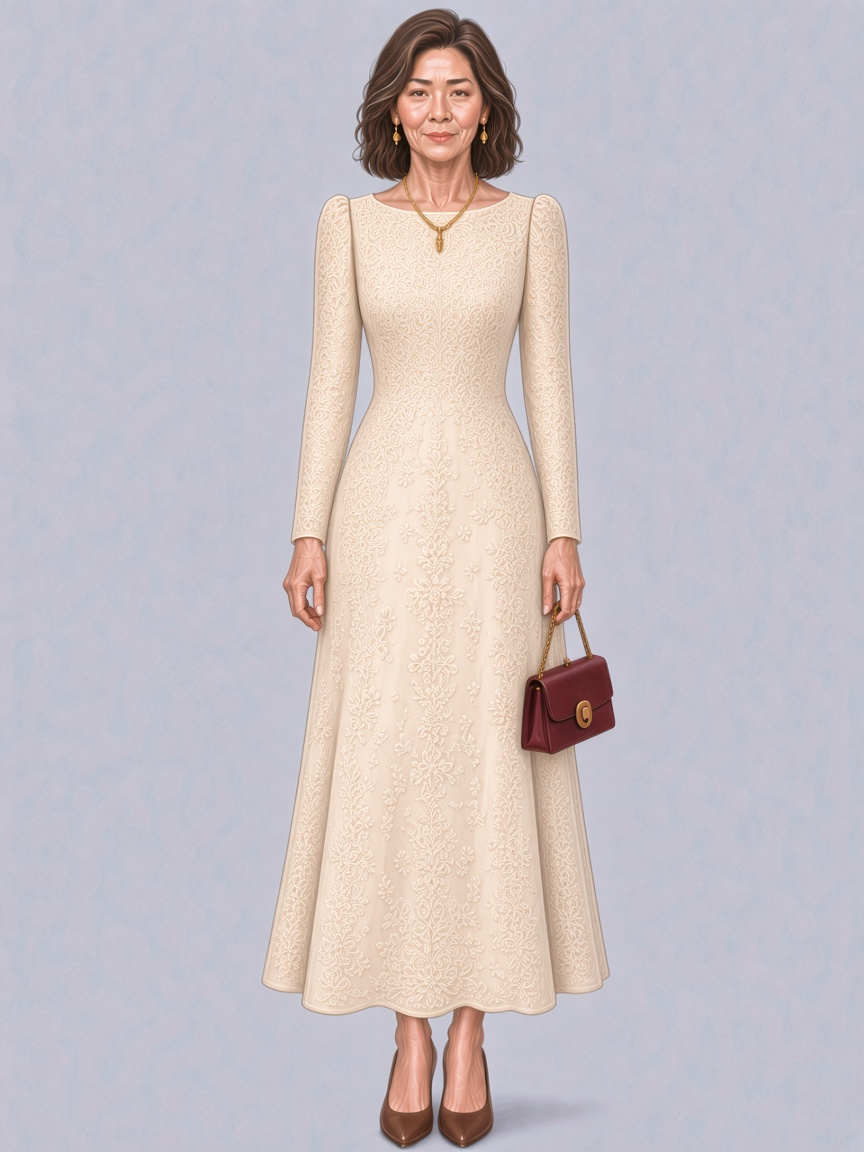
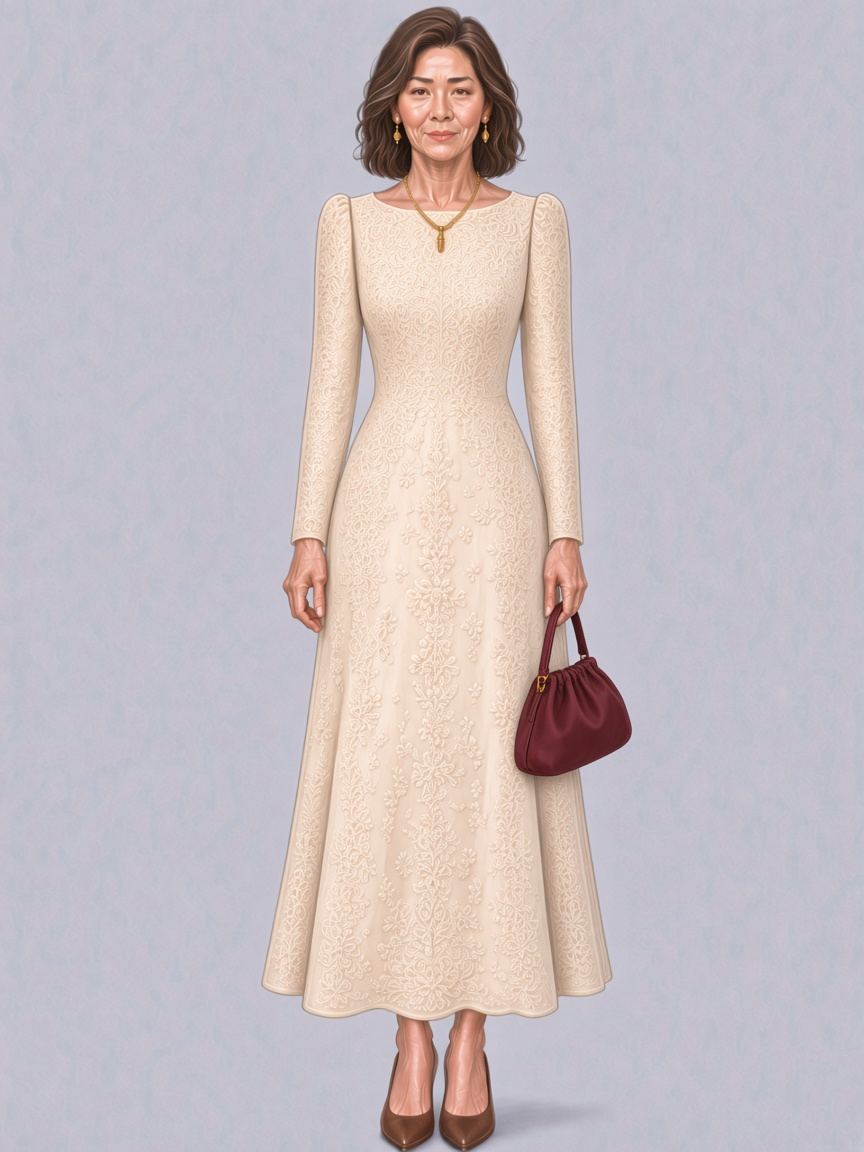
Let guests open attire samples and raise each tile on hover.

diff --git a/index.html b/index.html
@@ -16,7 +16,7 @@
   <link href="https://fonts.googleapis.com/css2?family=Allura&family=Cormorant+Garamond:ital,wght@0,400;0,500;0,600;1,400;1,500&family=Great+Vibes&family=Outfit:wght@300;400;500&family=IBM+Plex+Mono:wght@400&display=swap" rel="stylesheet" />
 
   <link rel="icon" href="assets/favicon.svg" type="image/svg+xml" />
-  <link rel="stylesheet" href="css/styles.css?v=168" />
+  <link rel="stylesheet" href="css/styles.css?v=172" />
   <script src="js/boot.js?v=3"></script>
 </head>
 <body>
@@ -287,21 +287,29 @@
             </p>
 
             <div class="attire-samples">
-              <div class="attire-models attire-models--do">
-                <figure class="attire-model">
-                  <img src="assets/attire/do-semiformal-women.jpg?v=3" alt="Woman in a forest green high-neck midi dress with three-quarter sleeves and closed shoes" width="768" height="1024" loading="lazy" />
+              <div class="attire-models attire-models--do" data-lightbox-gallery>
+                <figure class="attire-model" data-lightbox-item>
+                  <button type="button" class="attire-model__open" data-lightbox-open aria-label="View formal women's sample">
+                    <img src="assets/attire/do-semiformal-women.jpg?v=3" alt="Woman in a forest green high-neck midi dress with three-quarter sleeves and closed shoes" width="768" height="1024" loading="lazy" />
+                  </button>
                   <figcaption><strong>Formal · Women</strong> Forest green midi dress with sleeves, a modest neckline, and closed shoes</figcaption>
                 </figure>
-                <figure class="attire-model">
-                  <img src="assets/attire/do-semiformal-men.jpg?v=5" alt="Man in a hunter green long-sleeve button-front polo, dark slacks, and brown leather shoes" width="768" height="1024" loading="lazy" />
+                <figure class="attire-model" data-lightbox-item>
+                  <button type="button" class="attire-model__open" data-lightbox-open aria-label="View formal men's sample">
+                    <img src="assets/attire/do-semiformal-men.jpg?v=5" alt="Man in a hunter green long-sleeve button-front polo, dark slacks, and brown leather shoes" width="768" height="1024" loading="lazy" />
+                  </button>
                   <figcaption><strong>Formal · Men</strong> Hunter green long-sleeve button-front polo, slacks, and leather shoes</figcaption>
                 </figure>
-                <figure class="attire-model">
-                  <img src="assets/attire/do-formal-women.jpg?v=5" alt="Woman in an olive green short-sleeved knee-length dress and nude closed shoes" width="768" height="1024" loading="lazy" />
+                <figure class="attire-model" data-lightbox-item>
+                  <button type="button" class="attire-model__open" data-lightbox-open aria-label="View semi-formal women's sample">
+                    <img src="assets/attire/do-formal-women.jpg?v=5" alt="Woman in an olive green short-sleeved knee-length dress and nude closed shoes" width="768" height="1024" loading="lazy" />
+                  </button>
                   <figcaption><strong>Semi-formal · Women</strong> Olive green knee-length dress with short sleeves, a modest neckline, and closed shoes</figcaption>
                 </figure>
-                <figure class="attire-model">
-                  <img src="assets/attire/do-formal-men.jpg?v=6" alt="Man in an olive green short-sleeve button-front polo, beige pants, black shoes, and eyeglasses" width="768" height="1024" loading="lazy" />
+                <figure class="attire-model" data-lightbox-item>
+                  <button type="button" class="attire-model__open" data-lightbox-open aria-label="View semi-formal men's sample">
+                    <img src="assets/attire/do-formal-men.jpg?v=6" alt="Man in an olive green short-sleeve button-front polo, beige pants, black shoes, and eyeglasses" width="768" height="1024" loading="lazy" />
+                  </button>
                   <figcaption><strong>Semi-formal · Men</strong> Olive green button-front polo, beige pants, and black shoes</figcaption>
                 </figure>
               </div>
@@ -403,22 +411,30 @@
               </figure>
             </div>
             <div class="attire-samples">
-              <div class="attire-models attire-models--sponsors">
-                <figure class="attire-model">
-                  <img src="assets/attire/do-ninong.jpg?v=6" alt="Man in a beige barong, black trousers, black dress socks, black leather shoes, and a gold watch" width="768" height="1024" loading="lazy" />
+              <div class="attire-models attire-models--sponsors" data-lightbox-gallery>
+                <figure class="attire-model" data-lightbox-item>
+                  <button type="button" class="attire-model__open" data-lightbox-open aria-label="View ninong sample">
+                    <img src="assets/attire/do-ninong.jpg?v=6" alt="Man in a beige barong, black trousers, black dress socks, black leather shoes, and a gold watch" width="768" height="1024" loading="lazy" />
+                  </button>
                   <figcaption><strong>Ninong</strong> Beige barong, formal trousers, and leather shoes</figcaption>
                 </figure>
-                <figure class="attire-model">
-                  <img src="assets/attire/do-ninang.jpg?v=8" alt="Woman in a champagne beige lace formal dress with sleeves, a gold necklace and earrings, holding a folding fan and a small handbag, and wearing closed shoes" width="768" height="1024" loading="lazy" />
+                <figure class="attire-model" data-lightbox-item>
+                  <button type="button" class="attire-model__open" data-lightbox-open aria-label="View ninang sample">
+                    <img src="assets/attire/do-ninang.jpg?v=8" alt="Woman in a champagne beige lace formal dress with sleeves, a gold necklace and earrings, holding a folding fan and a small handbag, and wearing closed shoes" width="768" height="1024" loading="lazy" />
+                  </button>
                   <figcaption><strong>Ninang</strong> Champagne beige lace formal dress with sleeves and closed shoes</figcaption>
                 </figure>
-                <figure class="attire-model">
-                  <img src="assets/attire/do-ninong-2.jpg?v=2" alt="Man with hair combed back, in a beige barong with scattered floral embroidery, brown trousers, dark socks, wood-tone shoes, a silver watch, and a wooden cane" width="768" height="1024" loading="lazy" />
+                <figure class="attire-model" data-lightbox-item>
+                  <button type="button" class="attire-model__open" data-lightbox-open aria-label="View second ninong sample">
+                    <img src="assets/attire/do-ninong-2.jpg?v=2" alt="Man with hair combed back, in a beige barong with scattered floral embroidery, brown trousers, dark socks, wood-tone shoes, a silver watch, and a wooden cane" width="768" height="1024" loading="lazy" />
+                  </button>
                   <figcaption><strong>Ninong</strong> Another barong, brown trousers, wood-tone shoes, and a cane</figcaption>
                 </figure>
-                <figure class="attire-model">
-                  <img src="assets/attire/do-ninang-2.jpg?v=3" alt="Woman with a shoulder-length bob, in a champagne beige long-sleeve embossed dress with a gold necklace and earrings, a burgundy handbag, and wood-tone closed heels" width="768" height="1024" loading="lazy" />
-                  <figcaption><strong>Ninang</strong> Champagne beige long-sleeve dress, burgundy bag, and wood-tone shoes</figcaption>
+                <figure class="attire-model" data-lightbox-item>
+                  <button type="button" class="attire-model__open" data-lightbox-open aria-label="View second ninang sample">
+                    <img src="assets/attire/do-ninang-2.jpg?v=4" alt="Woman with a shoulder-length bob, in a champagne beige long-sleeve embossed dress with a gold necklace and earrings, a burgundy pouch bag, and wood-tone closed heels" width="768" height="1024" loading="lazy" />
+                  </button>
+                  <figcaption><strong>Ninang</strong> Champagne beige long-sleeve dress, burgundy pouch, and wood-tone shoes</figcaption>
                 </figure>
               </div>
             </div>
@@ -1103,7 +1119,7 @@
   </footer>
 
   <script src="js/config.js?v=6"></script>
-  <script src="js/main.js?v=41"></script>
+  <script src="js/main.js?v=42"></script>
   <script src="js/guestlist.js?v=9"></script>
   <script src="js/rsvp.js?v=74"></script>
 </body>

diff --git a/js/main.js b/js/main.js
@@ -746,25 +746,26 @@
 
   /* Gallery lightbox */
   const lightbox = document.querySelector("[data-lightbox]");
-  const lightboxGallery = document.querySelector("[data-lightbox-gallery]");
-  if (lightbox && lightboxGallery && typeof lightbox.showModal === "function") {
-    const items = Array.from(lightboxGallery.querySelectorAll("[data-lightbox-item]"));
+  const lightboxGalleries = Array.from(document.querySelectorAll("[data-lightbox-gallery]"));
+  if (lightbox && lightboxGalleries.length && typeof lightbox.showModal === "function") {
     const imgEl = lightbox.querySelector("[data-lightbox-img]");
     const captionEl = lightbox.querySelector("[data-lightbox-caption]");
     const closeBtn = lightbox.querySelector("[data-lightbox-close]");
     const prevBtn = lightbox.querySelector("[data-lightbox-prev]");
     const nextBtn = lightbox.querySelector("[data-lightbox-next]");
+    let photos = [];
     let activeIndex = 0;
 
-    const photos = items.map((item) => {
-      const img = item.querySelector("img");
-      const caption = item.querySelector("figcaption");
-      return {
-        src: img ? img.currentSrc || img.src : "",
-        alt: img ? img.alt : "",
-        caption: caption ? caption.textContent.replace(/\s+/g, " ").trim() : "",
-      };
-    });
+    const readPhotos = (gallery) =>
+      Array.from(gallery.querySelectorAll("[data-lightbox-item]")).map((item) => {
+        const img = item.querySelector("img");
+        const caption = item.querySelector("figcaption");
+        return {
+          src: img ? img.getAttribute("src") || img.src : "",
+          alt: img ? img.alt : "",
+          caption: caption ? caption.textContent.replace(/\s+/g, " ").trim() : "",
+        };
+      });
 
     const render = (index) => {
       if (!photos.length) return;
@@ -775,7 +776,8 @@
       captionEl.textContent = photo.caption;
     };
 
-    const openAt = (index) => {
+    const openAt = (gallery, index) => {
+      photos = readPhotos(gallery);
       render(index);
       if (!lightbox.open) lightbox.showModal();
     };
@@ -784,10 +786,12 @@
       if (lightbox.open) lightbox.close();
     };
 
-    items.forEach((item, index) => {
-      const trigger = item.querySelector("[data-lightbox-open]");
-      if (!trigger) return;
-      trigger.addEventListener("click", () => openAt(index));
+    lightboxGalleries.forEach((gallery) => {
+      gallery.querySelectorAll("[data-lightbox-item]").forEach((item, index) => {
+        const trigger = item.querySelector("[data-lightbox-open]");
+        if (!trigger) return;
+        trigger.addEventListener("click", () => openAt(gallery, index));
+      });
     });
 
     closeBtn?.addEventListener("click", close);

diff --git a/css/styles.css b/css/styles.css
@@ -1208,6 +1208,40 @@ html:not(.guestlist-unlocked) .site-nav.is-open a[data-nav-guestlist] {
   background: #d5e6f2;
 }
 
+.attire-model__open {
+  display: block;
+  position: relative;
+  width: 100%;
+  margin: 0;
+  padding: 0;
+  border: 0;
+  border-radius: var(--radius-md);
+  background: transparent;
+  cursor: zoom-in;
+  text-align: inherit;
+  font: inherit;
+  color: inherit;
+  -webkit-tap-highlight-color: transparent;
+  transition: transform 0.35s var(--ease), box-shadow 0.35s var(--ease);
+}
+
+@media (hover: hover) {
+  .attire-model__open:hover {
+    transform: translateY(-8px);
+    box-shadow:
+      inset 0 2px 0 rgba(255, 255, 255, 0.65),
+      0 0 0 2px #9fd4ee,
+      0 16px 26px rgba(61, 143, 186, 0.28),
+      0 0 18px rgba(110, 180, 216, 0.55);
+  }
+}
+
+.attire-model__open:focus-visible {
+  outline: 2px solid var(--powder-deep);
+  outline-offset: 3px;
+  border-radius: var(--radius-md);
+}
+
 .attire-model {
   margin: 0;
 }
